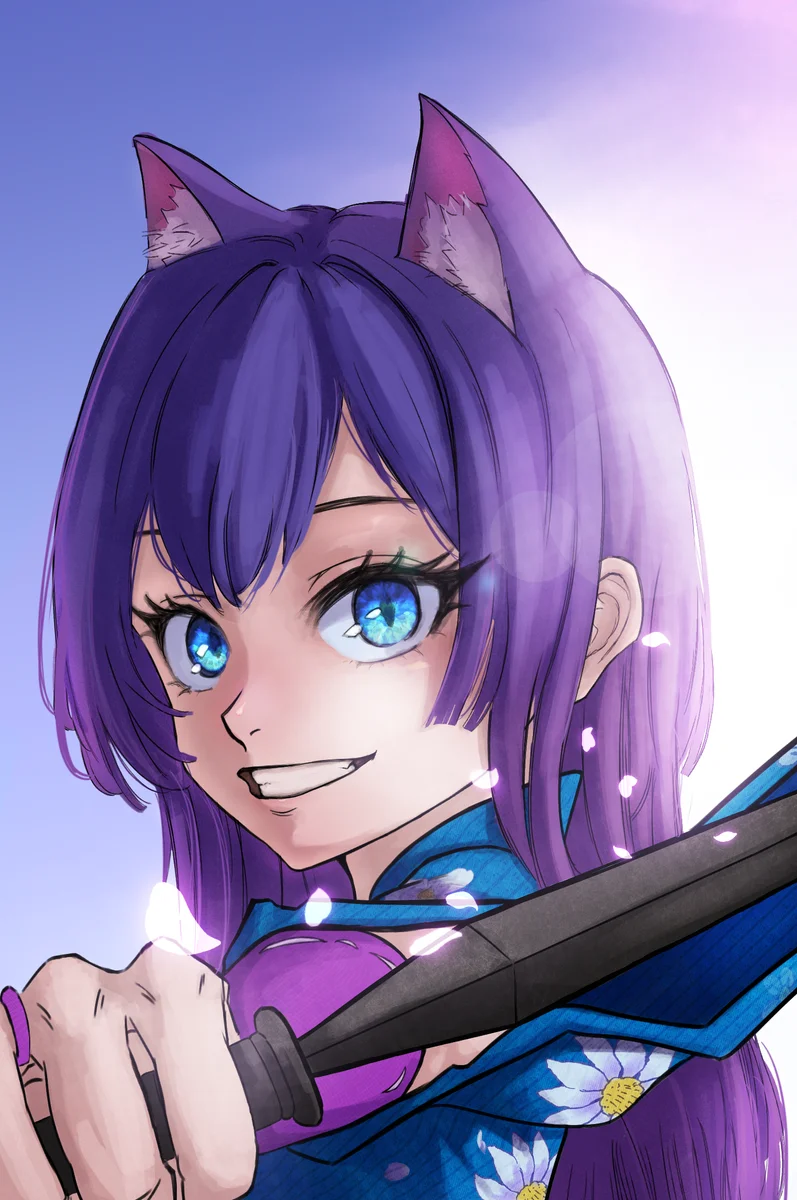
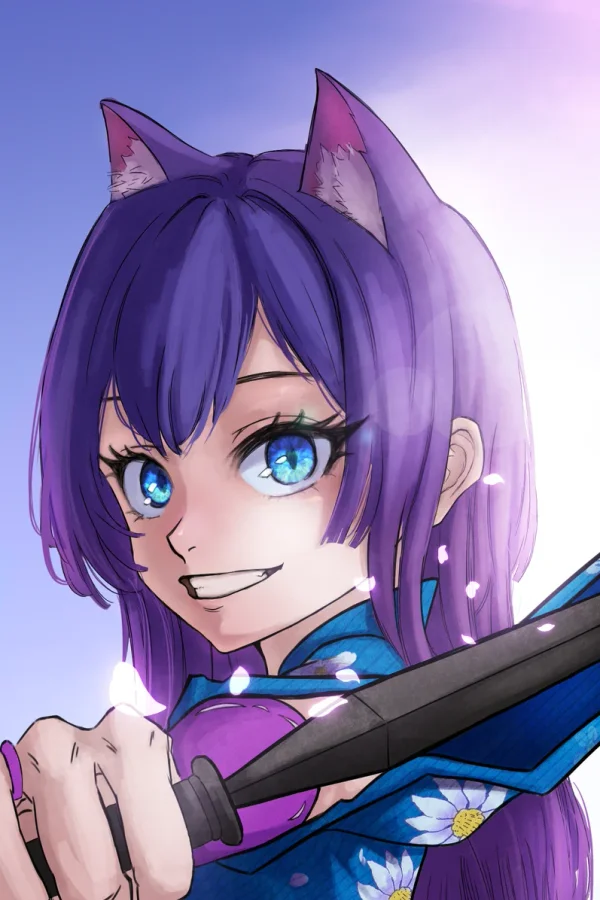
style: change Game/Community panels to golden yellowish brown theme

diff --git a/dashboard-server.js b/dashboard-server.js
@@ -664,13 +664,24 @@ const server = http.createServer(async (req, res) => {
             const image = sharp(file.data);
             const metadata = await image.metadata();
             
-            // Resize if too large (max 1200px width/height)
-            const maxDimension = 1200;
-            if (metadata.width > maxDimension || metadata.height > maxDimension) {
-                image.resize(maxDimension, maxDimension, { 
-                    fit: 'inside', 
-                    withoutEnlargement: true 
+            // Panel backgrounds get portrait resize (800x1200), books get standard resize
+            const isPanelBg = bookId.startsWith('homepage-cover-') || bookId.startsWith('xanrean-cover-');
+            
+            if (isPanelBg) {
+                // Force portrait 800x1200 for panel backgrounds
+                image.resize(800, 1200, { 
+                    fit: 'cover',
+                    position: 'center'
                 });
+            } else {
+                // Standard resize for book covers (max 1200px)
+                const maxDimension = 1200;
+                if (metadata.width > maxDimension || metadata.height > maxDimension) {
+                    image.resize(maxDimension, maxDimension, { 
+                        fit: 'inside', 
+                        withoutEnlargement: true 
+                    });
+                }
             }
             
             // Save optimized WebP
@@ -678,11 +689,18 @@ const server = http.createServer(async (req, res) => {
                 .webp({ quality: 85, effort: 4 })
                 .toFile(path.join(COVERS_DIR, fname));
             
-            // Generate thumbnail (400px)
-            await sharp(file.data)
-                .resize(400, 400, { fit: 'inside', withoutEnlargement: true })
-                .webp({ quality: 80, effort: 4 })
-                .toFile(path.join(COVERS_DIR, thumbFname));
+            // Generate thumbnail - panels get portrait thumb, books get square
+            if (isPanelBg) {
+                await sharp(file.data)
+                    .resize(400, 600, { fit: 'cover', position: 'center' })
+                    .webp({ quality: 80, effort: 4 })
+                    .toFile(path.join(COVERS_DIR, thumbFname));
+            } else {
+                await sharp(file.data)
+                    .resize(400, 400, { fit: 'inside', withoutEnlargement: true })
+                    .webp({ quality: 80, effort: 4 })
+                    .toFile(path.join(COVERS_DIR, thumbFname));
+            }
             
             res.writeHead(200, { 'Content-Type': 'application/json' });
             return res.end(JSON.stringify({ 

diff --git a/public/index.html b/public/index.html
@@ -148,9 +148,9 @@
     }
     
     .split-community {
-      background: linear-gradient(180deg, rgba(16,185,129,0.1) 0%, rgba(10,6,20,0.9) 100%),
+      background: linear-gradient(180deg, rgba(180,83,9,0.15) 0%, rgba(10,6,20,0.9) 100%),
                   var(--community-bg, url('/images/tama-bg.png')) center/contain no-repeat;
-      border-right: 1px solid rgba(16,185,129,0.3);
+      border-right: 1px solid rgba(180,83,9,0.3);
     }
     
     [data-theme="light"] .split-xanrean {
@@ -164,7 +164,7 @@
     }
     
     [data-theme="light"] .split-community {
-      background: linear-gradient(180deg, rgba(16,185,129,0.15) 0%, rgba(20,10,40,0.7) 100%),
+      background: linear-gradient(180deg, rgba(180,83,9,0.25) 0%, rgba(40,25,10,0.8) 100%),
                   var(--community-bg) center/contain no-repeat;
     }
     
@@ -248,15 +248,15 @@
     }
     
     .split-title-community {
-      background: linear-gradient(135deg, #6ee7b7, #34d399, #10b981);
+      background: linear-gradient(135deg, #fbbf24, #d97706, #92400e);
       -webkit-background-clip: text;
       -webkit-text-fill-color: transparent;
       background-clip: text;
-      filter: drop-shadow(0 2px 10px rgba(16,185,129,0.3));
+      filter: drop-shadow(0 2px 10px rgba(180,83,9,0.3));
     }
     
     .split-cta-community {
-      color: #6ee7b7;
+      color: #fbbf24;
     }
     
     [data-theme="light"] .split-title {

diff --git a/public/xanrean.html b/public/xanrean.html
@@ -173,7 +173,7 @@
     }
     
     .hub-panel-game {
-      background: linear-gradient(180deg, rgba(245,158,11,0.1) 0%, rgba(10,6,20,0.9) 100%),
+      background: linear-gradient(180deg, rgba(180,83,9,0.15) 0%, rgba(10,6,20,0.9) 100%),
                   var(--xanrean-game-bg, url('/images/tama-bg.png')) center/contain no-repeat;
     }
     
@@ -193,7 +193,7 @@
     }
     
     [data-theme="light"] .hub-panel-game {
-      background: linear-gradient(180deg, rgba(245,158,11,0.15) 0%, rgba(20,10,40,0.7) 100%),
+      background: linear-gradient(180deg, rgba(180,83,9,0.25) 0%, rgba(40,25,10,0.8) 100%),
                   var(--xanrean-game-bg, url('/images/tama-bg.png')) center/contain no-repeat;
     }
     
@@ -253,11 +253,11 @@
     }
     
     .hub-title-game {
-      background: linear-gradient(135deg, #fcd34d, #f59e0b, #d97706);
+      background: linear-gradient(135deg, #fbbf24, #d97706, #92400e);
       -webkit-background-clip: text;
       -webkit-text-fill-color: transparent;
       background-clip: text;
-      filter: drop-shadow(0 2px 10px rgba(245,158,11,0.3));
+      filter: drop-shadow(0 2px 10px rgba(180,83,9,0.3));
     }
     
     [data-theme="light"] .hub-title {
